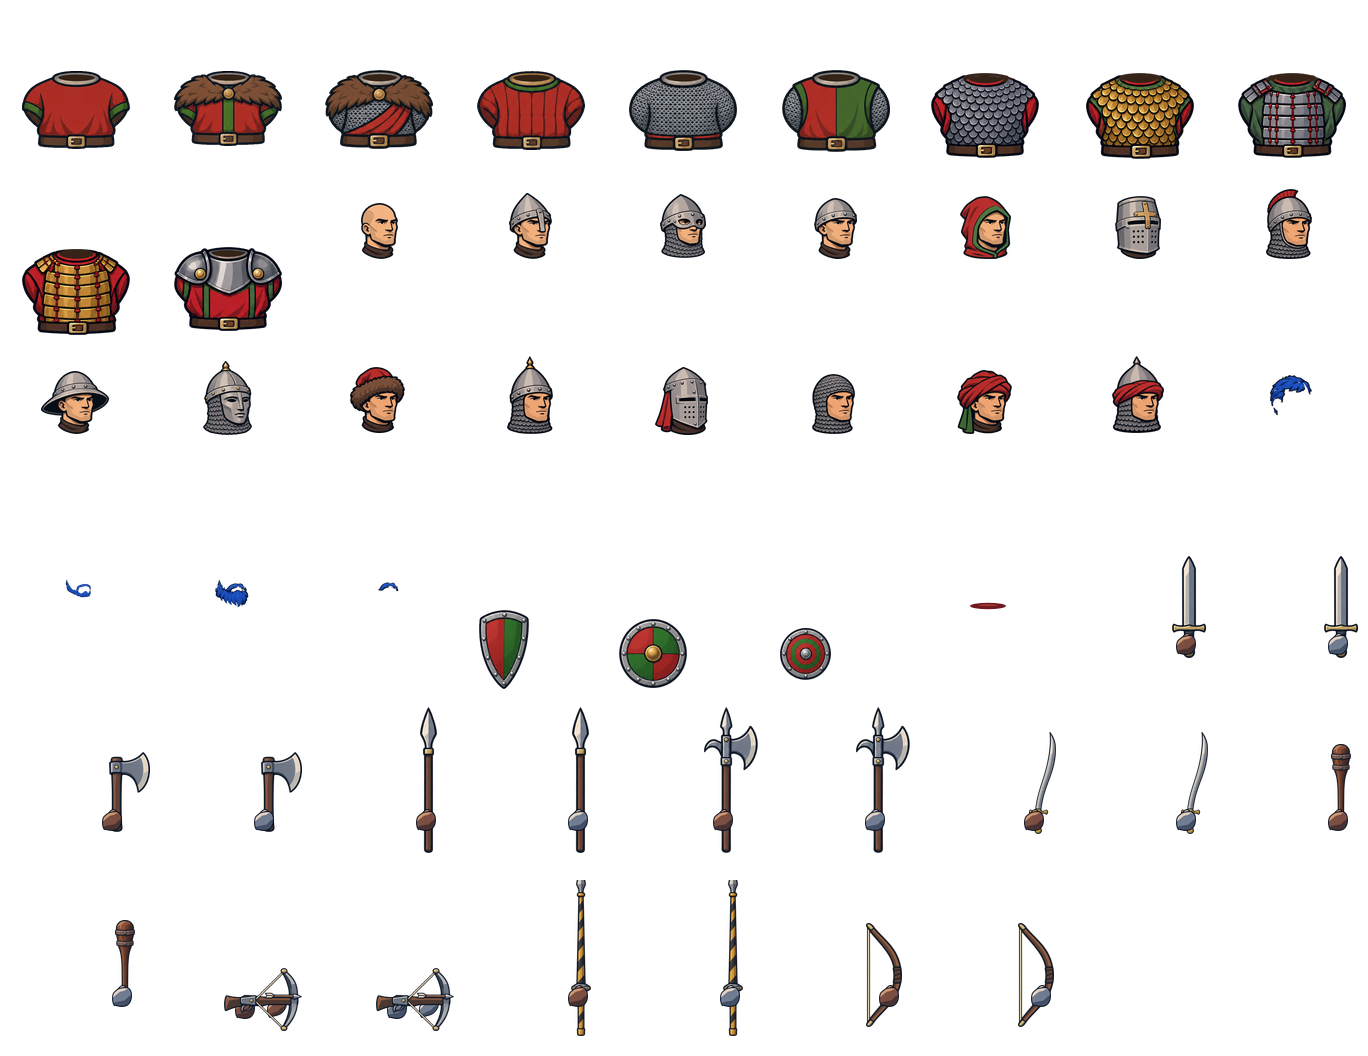
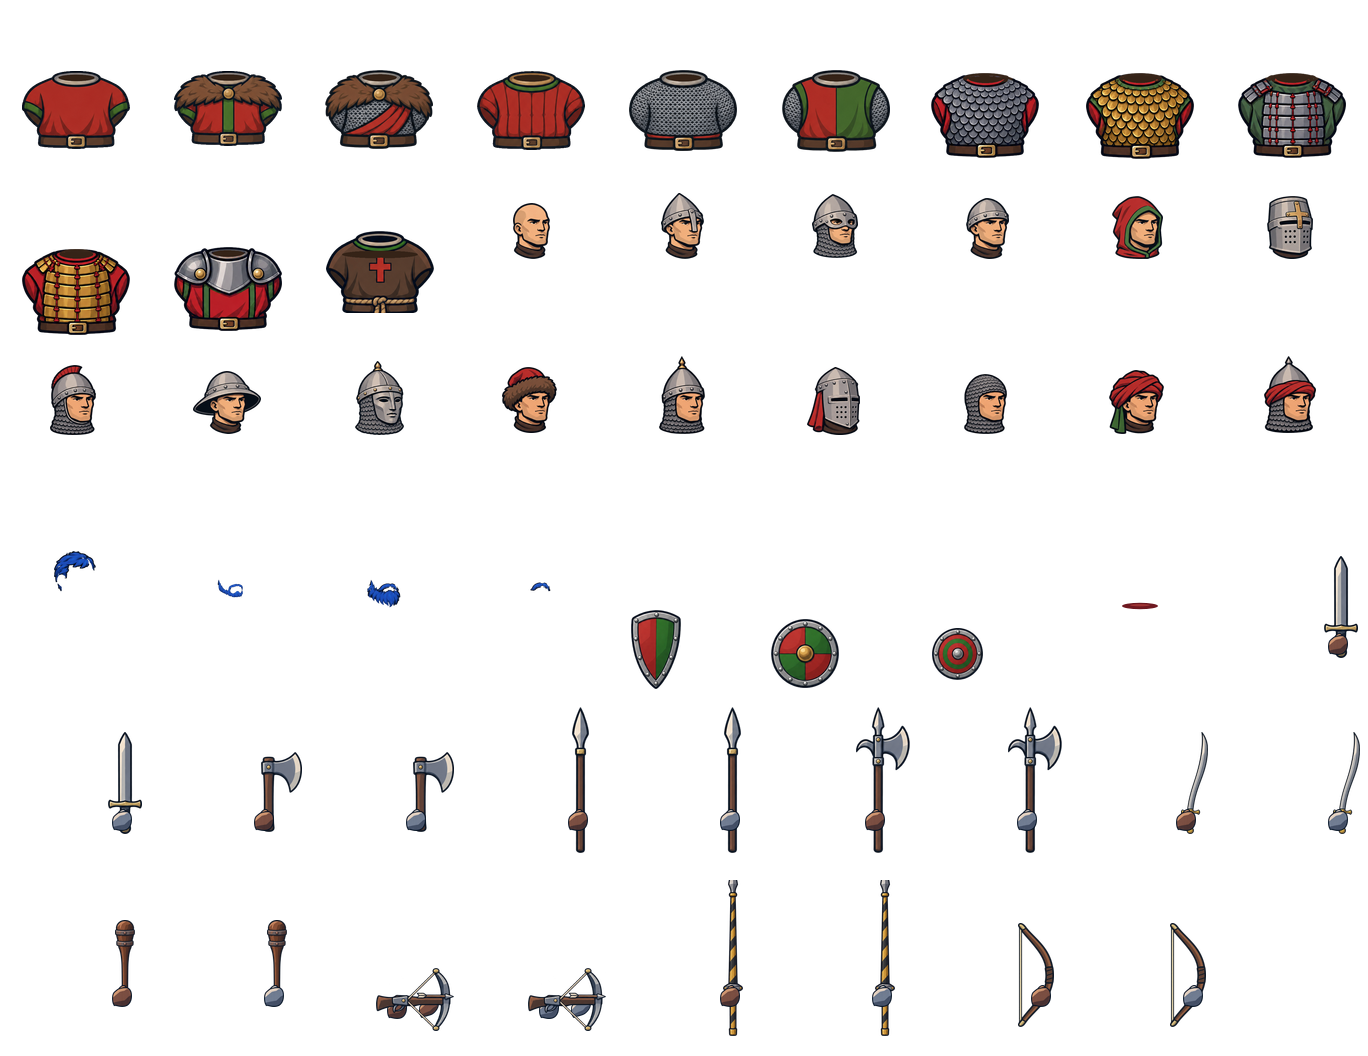
Ряса героя и спутников в геральдическом стиле
Торс рясы (habit) сгенерирован в ChatGPT по листу торсов героя и добавлен
в hero_heraldic_parts: герой и спутники в рясе (Викентий по умолчанию)
больше не откатываются на старые компоненты.

Claude-Session: https://claude.ai/code/session_0112NLBknHhD47xxrdgzAr2q

diff --git a/godot/tools/battle/heraldic_source/hero-prompts.md b/godot/tools/battle/heraldic_source/hero-prompts.md
@@ -35,6 +35,25 @@ Cells in reading order:
 6, 7, 8, 9 EMPTY.
 ```
 
+## Ряса (`hero-habit.png`) — вложения: `hero-torsos-a.png`, `body.png`
+
+Три варианта в верхнем ряду (все — `hero-habit-v1.png`); в игру взят средний (красный крест, зелёный ободок ворота),
+он один вырезан в `hero-habit.png`.
+
+```
+Production sprite sheet for an existing medieval strategy game. Attached hero-torsos-a.png is the EXACT FORMAT AND STYLE REFERENCE: torso layers of the player's hero in the same game. Draw 3 new torso layers that could sit in that sheet unnoticed: same HERALDIC GRAPHIC style, deep navy outlines of the same thickness, bold flat planes, 3-tone cel shading, same size, same proportions, same front view, same shoulder width and belt height, same economical broad cloth folds. body.png shows figures of the same game with heads, for scale only.
+Character: the same hero wearing a monk's habit. The habit is plain undyed wool, DARK BROWN #5a4232 with its own darker and lighter cel tones; leather and rope in muted tan and brown. The ONLY heraldic touches are KEY COLOURS the game recolours later, used EXACTLY and only as small flat cloth details: PURE RED #C62828 and PURE GREEN #2E7D32. Do NOT use red or green anywhere else.
+
+Square canvas, STRICT 3x3 grid of equal cells, one torso centered in each of cells 1, 2, 3 (top row) with generous transparent gaps; cells 4 to 9 EMPTY. Fully transparent background. No text, numbers, cell borders, ground, bases or shadows. No head, no neck, no arms, no hands, no legs, no shield, no weapon. No hood lying on the shoulders. Not photorealistic, not glossy 3D.
+
+Each torso goes from the waist up to the shoulders, rounded shoulders with short upper-arm stubs (wide habit sleeves cut off short) exactly like the reference torsos, no arms below them. At the waist a straight rope cord belt runs across the whole waist, tied in a simple knot in the middle, in place of the leather belt.
+NECK OPENING, critical: exactly like in hero-torsos-a.png. The collar lies FLAT on the shoulders and ends at shoulder level in a low, wide, slightly oval opening seen from the front: a thin rim with a navy outline and a DARK, almost black hollow inside. NO stand-up collar, NO cowl or cloth roll rising above the shoulders, nothing that could read as a neck.
+Cells in reading order (three variants of the same habit):
+1 habit: plain dark brown habit, a narrow red scapular strip down the middle of the chest with a green edge, rope belt.
+2 habit: plain dark brown habit with a small simple cross on the chest in red, thin green rim on the collar, rope belt.
+3 habit: dark brown habit with a short shoulder cape (mozzetta) lying flat over the shoulders, its edge trimmed green, small red cord knot at the belt.
+```
+
 ## Головы, волосы, щиты, кольчуги
 
 Итоговые промпты — в истории #232; суть:
